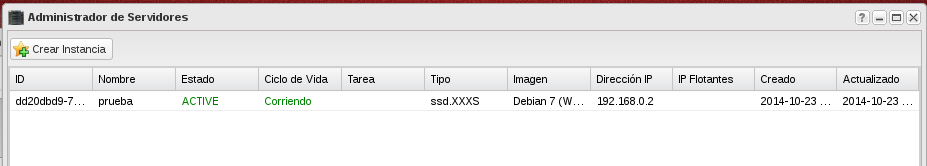
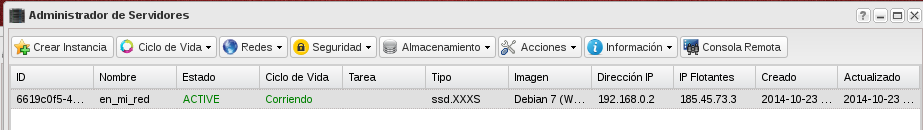
Demo1

diff --git a/curso/u4/demo2.md b/curso/u4/demo2.md
@@ -5,4 +5,18 @@ menu:
   - Unidad 4
 ---
 
-## Demostración 2:
+## Demostración 2: Creación de una nueva instancia en la nueva red
+
+Una vez creado nuestra nueva red, conectada a un nuevo router vamos a crear una instancia en la nueva red y vamos a comprobar que se le puede asociar una ip flotante, además vamos a comprobar que podemos hacer ping a otra instancia que está conectada a la otra red.
+
+1. A la hora de crear la nueva instancia tenemos que asegurarnos que conectamos a la nueva red.
+
+	![red](img/net5.png)
+
+2. Podemos comprobar en la siguiente imagen que la nueva instancia tiene una IP fija en el rango de la nueva red (192.168.0.2) y que tiene asociada una ip pública.
+
+	![red](img/net6.png)
+
+3. Por último vamos a comprobar que puede hacer ping a otra instancia conectada a la red por defecto y que tiene como ip fija la 10.0.15.68.
+
+	![red](img/net8.png)

diff --git a/curso/u4/index.md b/curso/u4/index.md
@@ -19,7 +19,7 @@ menu:
 ###Contenidos
 
 * [Creación de red y subred](demo1)
-* [Creación de una nueva onstancia en la nueva red](demo2)
+* [Creación de una nueva instancia en la nueva red](demo2)
 * [Balanceadore de carga](http://youtu.be/Gc1hXiz86kU)
 
 ###Enlaces interesantes
